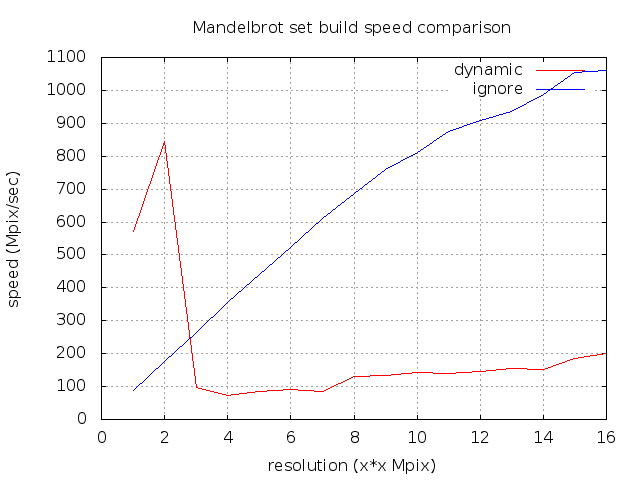
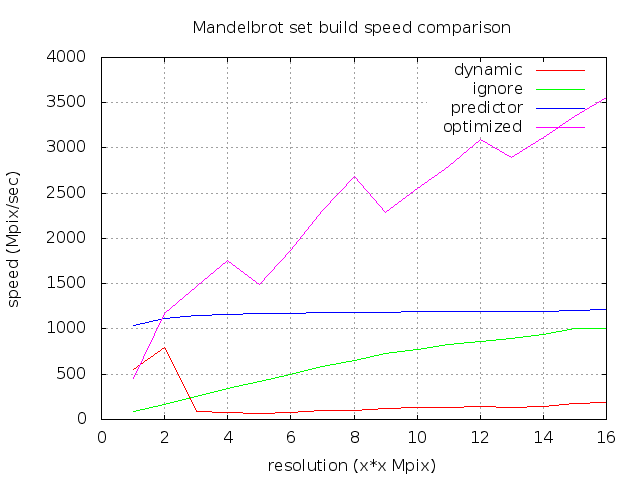
Added "predictor" approach. Added optimized Mariani-Silver algorithm to the list of programs to be tested.

diff --git a/test.py b/test.py
@@ -4,7 +4,8 @@ import shlex
 #################################################
 # To add a target, add its compilation line to
 # the compile_strings list and the name of the
-# executable to the exe list.
+# executable to the exe list. If there are more
+# than three executables, add colors.
 #################################################
 
 def generate_plot_config(name, mode):
@@ -50,7 +51,7 @@ def generate_plot_config_comparison(names, mode):
   config.write("set ylabel \"{} ({})\"\n".format(what, units))
   config.write("set title \"Mandelbrot set build {} comparison\"\n".format(what))
   plot_str = "plot "
-  colors = ["red", "blue", "green"]
+  colors = ["red", "green", "blue", "magenta"]
   for nm in names:
     plot_str += "\""+nm+"-"+what+".log\""+" with lines title \""+nm+"\" linecolor rgb \""+ colors[names.index(nm)] +"\", "
   plot_str = plot_str[:len(plot_str) - 2]
@@ -81,6 +82,8 @@ if __name__ == '__main__':
   compile_strings = [
     "/usr/local/cuda-6.5/bin/nvcc /export/users/mblument/BachelorPaper/source/mandelbrot-dynamic.cu -O3 -arch=sm_35 -rdc=true -lcudadevrt -Xcompiler -fopenmp -lpng -o dynamic",
     "/usr/local/cuda-6.5/bin/nvcc /export/users/mblument/BachelorPaper/source/mandelbrot-ignore.cu -O3 -arch=sm_35 -rdc=true -lcudadevrt -Xcompiler -fopenmp -lpng -o ignore",
+    "/usr/local/cuda-6.5/bin/nvcc /export/users/mblument/BachelorPaper/source/mandelbrot-predictor.cu -O3 -arch=sm_35 -rdc=true -lcudadevrt -Xcompiler -fopenmp -lpng -o predictor",
+    "/usr/local/cuda-6.5/bin/nvcc /export/users/mblument/BachelorPaper/source/mandelbrot-optimized.cu -O3 -arch=sm_35 -rdc=true -lcudadevrt -Xcompiler -fopenmp -lpng -o optimized",
   ]
   compile_log = open("compile.log", "w")
 
@@ -96,6 +99,8 @@ if __name__ == '__main__':
   exe = [
     'dynamic',
     'ignore',
+    'predictor',
+    'optimized',
   ]
 
   run_logs = [open(ex+".log", "w") for ex in exe]

diff --git a/README.md b/README.md
@@ -9,8 +9,12 @@ programs in CUDA C, computing mandelbrot set:
  - mandelbrot-dynamic.cu - naive escape time
  algorithm with dynamic parallelism;
 
- - mandelbrot-ignore.cpp - naive escape
+ - mandelbrot-ignore.cu - naive escape
  time algorithm ignoring simd pragma;
+
+ - mandelbrot-predictor.cu - naive escape
+ time algorithm processing simd by creating
+ additional threads;
 
 mandelbrot-optimized.cu was added just to
 illustrate an effective way of using
